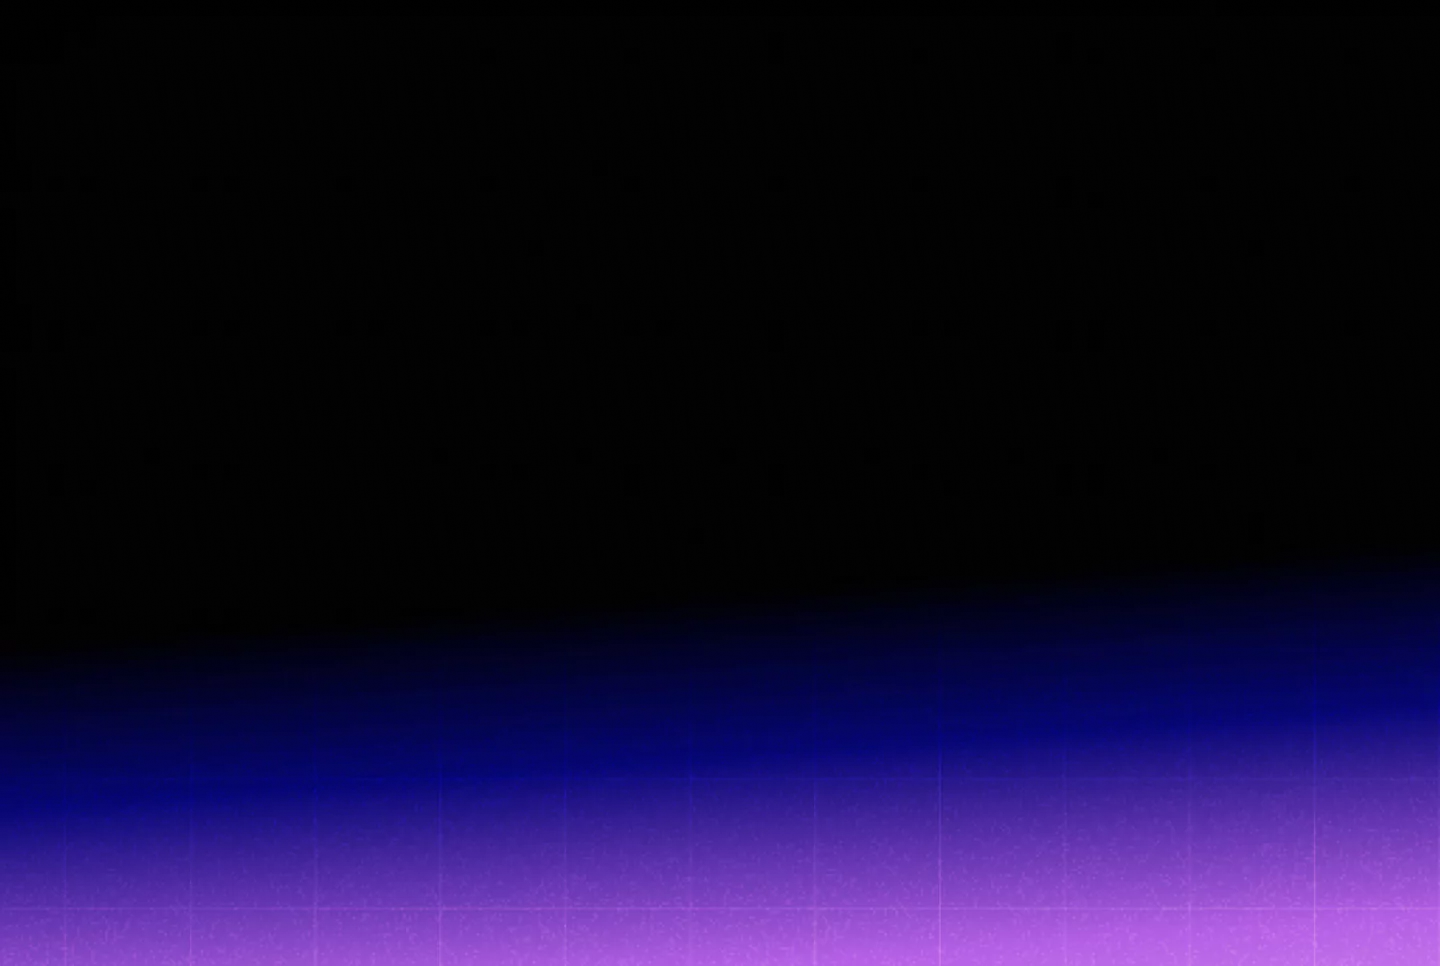
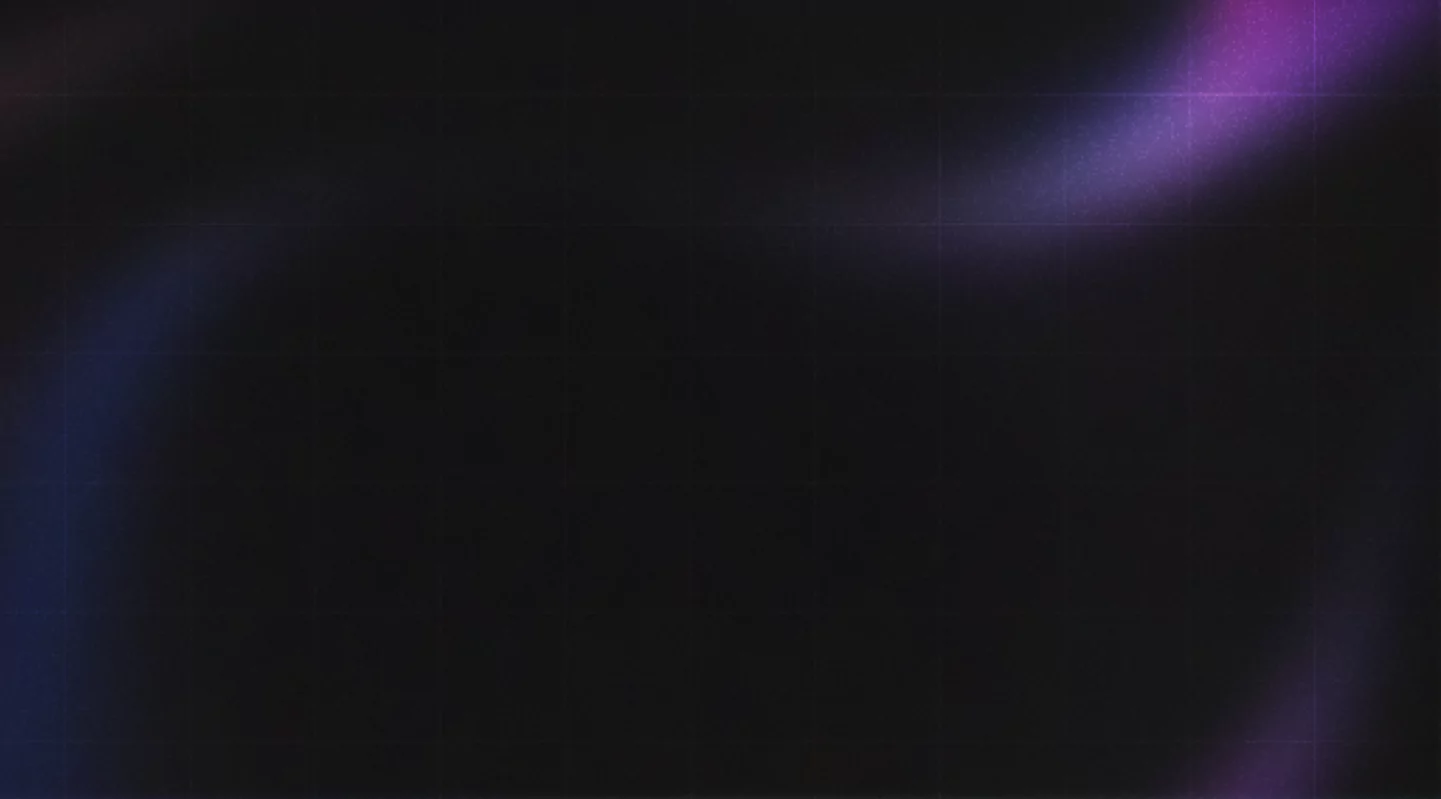
change bg image

diff --git a/components/Navbar/index.jsx b/components/Navbar/index.jsx
@@ -1,6 +1,7 @@
 "use client";
 
 import { useState } from "react";
+import { usePathname } from "next/navigation";
 import classes from "./index.module.css";
 import Link from "next/link";
 
@@ -14,25 +15,35 @@ const navigationItems = [
   { label: "Contact", href: "#" },
 ];
 
-const NavItem = ({ label, href }) => (
-  <div className="group">
-    <Link href={href}>
-      <p className="text-lg md:text-base lg:text-lg text-center">{label}</p>
-    </Link>
-    <div className="mx-2"></div>
-  </div>
-);
+const NavItem = ({ label, href }) => {
+  const pathname = usePathname();
+
+  return (
+    <div
+      className={`group text-[#9A9A9A] ${
+        pathname === href
+          ? "bg-[#FFFFFF1A] py-2 px-6 rounded-full transition-all"
+          : ""
+      }`}
+    >
+      <Link href={href}>
+        <p className="text-lg md:text-base lg:text-lg text-center">{label}</p>
+      </Link>
+      <div className="mx-2"></div>
+    </div>
+  );
+};
 
 export default function Navbar() {
   const [isMenuOpen, setMenuOpen] = useState(false);
 
   return (
     <>
-      <nav className="flex items-center justify-center font-[600] text-[#7A7A7A]">
+      <nav className="flex items-center justify-center font-[600]">
         <div
           className="hidden h-10 md:flex md:justify-center md:items-center md:space-x-10 
-            px-12 py-8 rounded-full border border-solid border-gray-800 
-            bg-opacity-60 backdrop-blur-md"
+            px-6 py-8 rounded-full border-2 border-solid border-gray-800 
+            bg-opacity-60 backdrop-blur-xl drop-shadow-lg"
         >
           {navigationItems.map(({ label, href }) => (
             <NavItem key={label} label={label} href={href} />

diff --git a/app/page.js b/app/page.js
@@ -13,7 +13,6 @@ export default function Home() {
         backgroundColor: "#000",
         backgroundImage: "url(/background.webp)",
         backgroundAttachment: "fixed",
-        backgroundPositionY: "bottom",
       }}
     >
       <Navbar />
@@ -59,7 +58,7 @@ export default function Home() {
         <Image
           src={hackbyteLogo}
           alt="HackByte Logo"
-          className="max-w-[32rem] min-w-[15rem] w-[75%] 2xl:max-w-[40rem]"
+          className="max-w-[30rem] min-w-[15rem] w-[70%] 2xl:max-w-[40rem] brightness-120"
           priority
         />
       </div>
